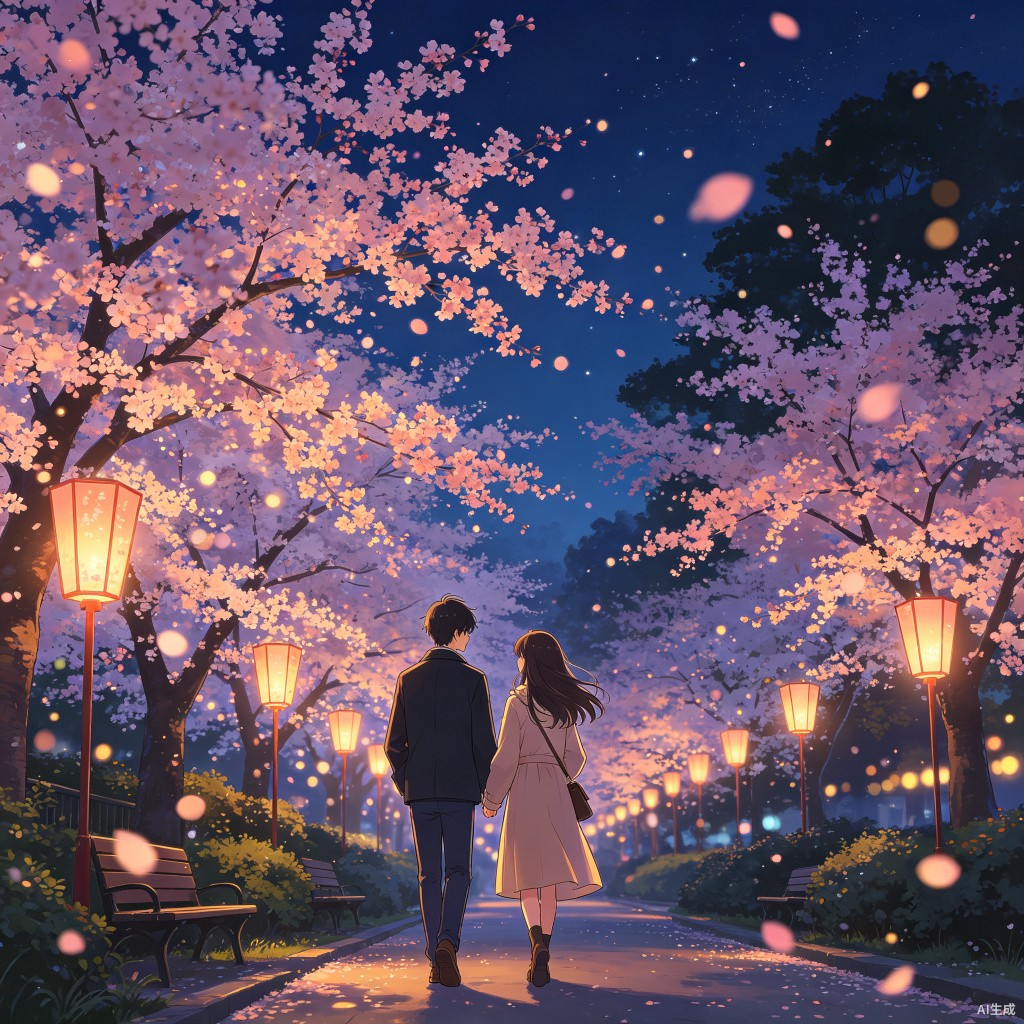
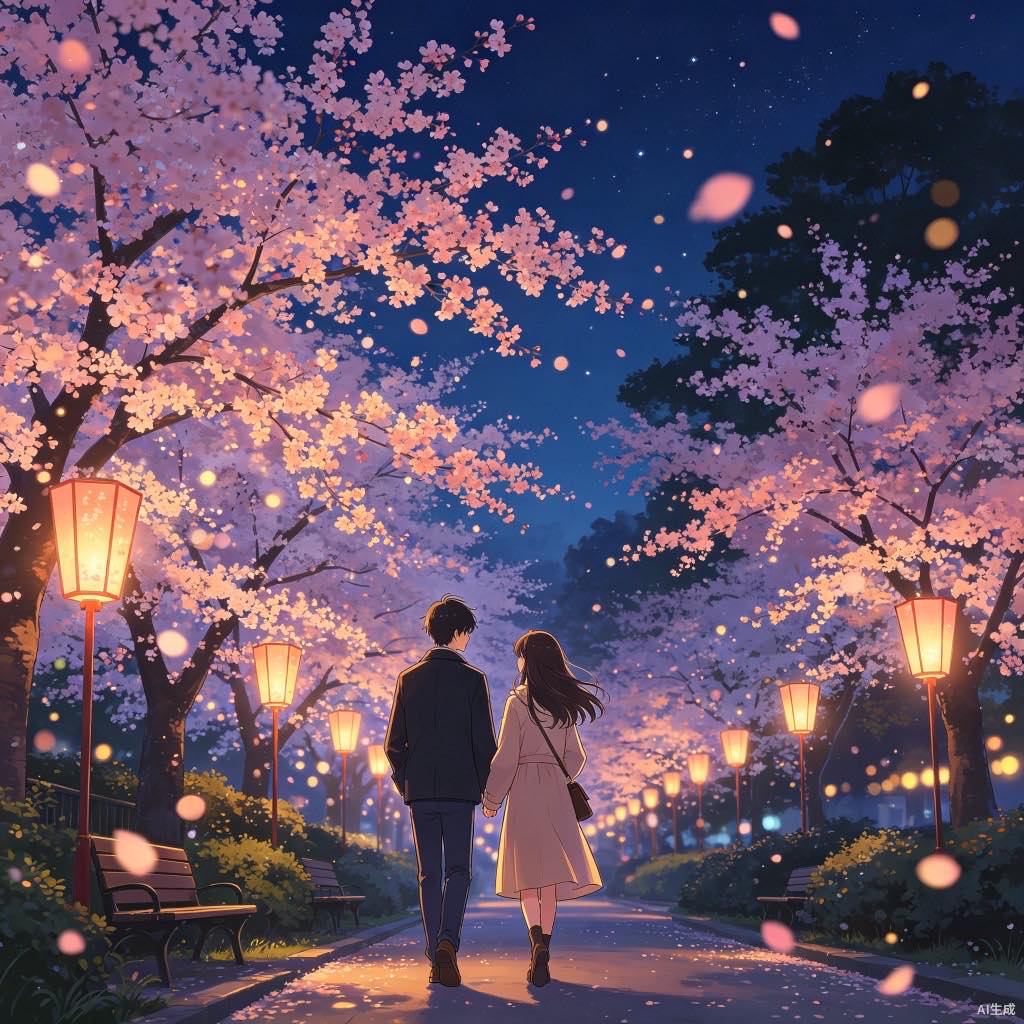
feat: configure GitHub Actions for Vercel deployment

diff --git a/frontend/config/index.ts b/frontend/config/index.ts
@@ -62,13 +62,36 @@ export default defineConfig(async (merge, { command, mode }) => {
     h5: {
       publicPath: '/',
       staticDirectory: 'static',
+      router: {
+        mode: 'browser'
+      },
+      // @ts-ignore
+      html: {
+        template: './public/index.html',
+        filename: 'index.html',
+        title: '人格图鉴',
+        inject: true
+      },
       output: {
-        filename: 'js/[name].[hash:8].js',
-        chunkFilename: 'js/[name].[chunkhash:8].js'
+        filename: 'js/[name].[contenthash:8].js',
+        chunkFilename: 'js/[name].[contenthash:8].js'
+      },
+      // @ts-ignore
+      proxy: {
+        '/api': {
+          target: 'http://localhost:8000',
+          changeOrigin: true,
+          secure: false,
+        },
       },
       devServer: {
+        host: '0.0.0.0',
         port: 10086,
         hot: true,
+        allowedHosts: 'all',
+        client: {
+          webSocketURL: 'auto://0.0.0.0:0/ws',
+        },
         historyApiFallback: {
           index: '/index.html',
         },
@@ -87,8 +110,8 @@ export default defineConfig(async (merge, { command, mode }) => {
       },
       miniCssExtractPluginOption: {
         ignoreOrder: true,
-        filename: 'css/[name].[hash:8].css',
-        chunkFilename: 'css/[name].[chunkhash:8].css'
+        filename: 'css/[name].[contenthash:8].css',
+        chunkFilename: 'css/[name].[contenthash:8].css'
       },
       postcss: {
         autoprefixer: {
@@ -105,6 +128,45 @@ export default defineConfig(async (merge, { command, mode }) => {
       },
       webpackChain(chain) {
         chain.output.set('hashFunction', 'xxhash64')
+        chain.plugin('html')
+          .use(require.resolve('html-webpack-plugin'), [{
+            template: './public/index.html',
+            filename: 'index.html',
+            title: '人格图鉴',
+            inject: true,
+            minify: {
+              removeComments: true,
+              collapseWhitespace: true
+            }
+          }])
+        chain.devServer.set('proxy', {
+          '/api': {
+            target: 'http://localhost:8000',
+            changeOrigin: true,
+            secure: false,
+          },
+        })
+        if (mode === 'development') {
+          chain.merge({
+            performance: {
+              hints: false,
+            },
+          })
+        } else {
+          chain.merge({
+            performance: {
+              hints: 'warning',
+              maxAssetSize: 300 * 1024,
+              maxEntrypointSize: 512 * 1024,
+              assetFilter(assetFilename) {
+                if (/\.(jpe?g|png|webp|gif|svg|ico|woff2?|ttf|otf|eot)$/i.test(assetFilename)) {
+                  return false
+                }
+                return true
+              },
+            },
+          })
+        }
       }
     }
   }

diff --git a/frontend/src/services/api.ts b/frontend/src/services/api.ts
@@ -1,4 +1,5 @@
 import axios from 'axios'
+import Taro from '@tarojs/taro'
 
 const api = axios.create({
   baseURL: '/',
@@ -6,6 +7,20 @@ const api = axios.create({
   headers: {
     'Content-Type': 'application/json',
   },
+})
+
+api.interceptors.request.use((config) => {
+  if (process.env.TARO_ENV === 'h5' && typeof window !== 'undefined') {
+    const url = config.url || ''
+    if (url.startsWith('/api/') || url === '/api' || url === '/api/') {
+      const { hostname, protocol, port } = window.location
+      const targetPort = '8000'
+      if (port !== targetPort) {
+        config.url = `${protocol}//${hostname}:${targetPort}${url}`
+      }
+    }
+  }
+  return config
 })
 
 api.interceptors.response.use(
@@ -21,6 +36,11 @@ api.interceptors.response.use(
         detail,
         request_body: err?.config?.data,
       })
+      if (typeof Taro?.showToast === 'function') {
+        Taro.showToast({ title: detail || `请求错误 ${status}`, icon: 'none' })
+      }
+    } else if (err?.code === 'ERR_NETWORK' || !err?.response) {
+      console.error('[API NETWORK ERROR]', { url: err?.config?.url, message: err?.message })
     }
     return Promise.reject(err)
   },

diff --git a/frontend/config/prod.ts b/frontend/config/prod.ts
@@ -6,16 +6,6 @@ export default {
   },
   mini: {},
   h5: {
-    /**
-     * 如果h5端编译后体积过大，可以使用webpack-bundle-analyzer对打包体积进行分析。
-     * @docs https://taro.zone/docs/config-detail#minidefaultminimizersplugin
-     */
-    // webpackChain(chain, webpack) {
-    //   chain.plugin('analyzer')
-    //     .use(WebpackBundleAnalyzer, [{
-    //       analyzerPort: 8888,
-    //       openAnalyzer: true,
-    //     }])
-    // }
+    esbuildMode: 'default'
   }
 }

diff --git a/frontend/public/index.html b/frontend/public/index.html
@@ -1,0 +1,11 @@
+<!DOCTYPE html>
+<html lang="zh-CN">
+<head>
+  <meta charset="UTF-8">
+  <meta name="viewport" content="width=device-width, initial-scale=1.0, maximum-scale=1.0, user-scalable=no">
+  <title><%= htmlWebpackPlugin.options.title %></title>
+</head>
+<body>
+  <div id="app"></div>
+</body>
+</html>

diff --git a/frontend/src/pages/game/index.scss b/frontend/src/pages/game/index.scss
@@ -85,7 +85,7 @@
 
 .game-scene-img {
   width: 100%;
-  height: 200px;
+  height: 500px;
   object-fit: cover;
   display: block;
 }